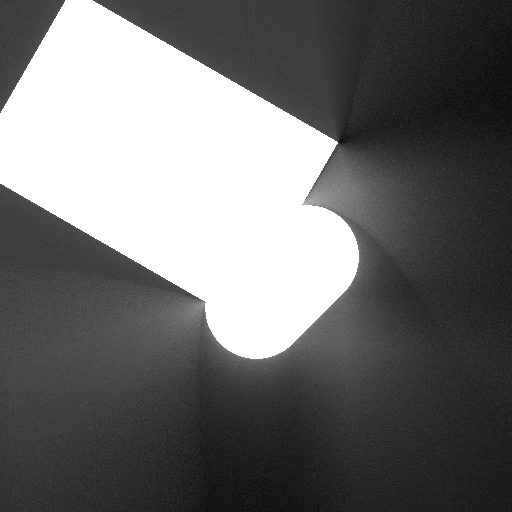
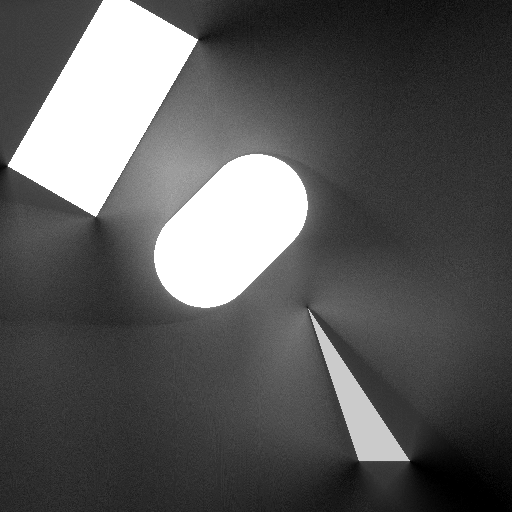
light reflect, not finished

diff --git a/src/c_pure/light.c b/src/c_pure/light.c
@@ -21,11 +21,13 @@ float circleSDF(float ox, float oy, float cx, float cy, float r){
 /**
  * 光线步进追踪
  */
-#define MAX_STEP 10
+#define MAX_STEP 64
 // 描述光是按直线上的单位的长度, 这里与半径一致, 就可以步进到 
-#define MAX_DISTANCE 2.0f
+#define MAX_DISTANCE 5.0f
 // 这是一个什么常量呢? sdf 与之比较, 那就是指边接近边界的值
 #define EPSILON 1e-6f
+#define BAIS 1e-4f
+#define MAX_DEPTH 3
 
 /**
  * ray tracing, 求出光线与场景的最近点
@@ -91,7 +93,11 @@ unsigned char* drawBasicLight(){
     return img;
 }
 
-typedef struct {float sdf, emissive;} Result;
+typedef struct {float sdf, emissive, reflectivity;} Result;
+
+// 定义场景渲染函数指针
+static Result (*scenePtr)(float x, float y);
+static float (*samplePtr)(float x, float y);
 
 /**
  * 并集
@@ -118,50 +124,13 @@ Result subtractOp(Result a, Result b){
     return r;
 }
 
-static Result scene(float x, float y){
+static Result sceneCSG(float x, float y){
     Result r1 = {circleSDF(x, y, 0.4f, 0.5f, 0.2f), 1.0f};
     Result r2 = {circleSDF(x, y, 0.6f, 0.5f, 0.2f), 0.8f};
     // return unionOp(r1, r2);
     return intersectOp(r1, r2);
     // return subtractOp(r1, r2);
     // return subtractOp(r2, r1);
-}
-
-float trace_s(float ox, float oy, float cosx, float sinx){
-    float t = 0.0f;
-    for(int i=0; i<MAX_STEP && t < MAX_DISTANCE; i++){
-        Result r = scene(ox + t*cosx, oy + t*sinx);
-        if(r.sdf < EPSILON){
-            return r.emissive;
-        }
-        t += r.sdf;
-    }
-    return 0.0f;
-}
-
-float sample_s(float x, float y){
-    float sum = 0.0f;
-    for(int i=0; i<N; i++){
-        // float a = i* TWO_PI / N;
-        float a = (i + (float)rand() / RAND_MAX) * TWO_PI / N;
-        sum += trace_s(x, y, cosf(a), sinf(a));
-    }
-    return sum / N;
-}
-
-unsigned char* drawCSGLight(){
-    char* p = img;
-    // 这里怎么不需要memset?
-    for(int y=0; y<H; y++){
-        for (int x=0; x<W; x++, p+=3){
-            // 这里为何要 这里是将坐标单位化, 圆心是按0.5, 0.5来算的
-            p[0] = p[1] = p[2] = (int)fminf(sample_s((float)x/W, (float)y/H)*255.0f, 255.0f);
-        //     p[0] = (int)fminf(sample((float)x/W, (float)y/H)*255.0f, 255.0f);
-        //     p[1] = (int)fminf(sample((float)x/W, (float)y/H)*255.0f, 255.0f);
-        //     p[2] = 0;
-        }
-    }
-    return img;
 }
 
 float segmentSDF(float x, float y, float ax, float ay, float bx, float by){
@@ -199,16 +168,29 @@ float triangleSDF(float x, float y, float ax, float ay, float bx, float by, floa
             (ax - cx) * (y - cy) > (ay - cy) * (x - cx) ? -d : d;
 }
 
-static Result shapeScene(float x, float y){
-    Result r1 = {rectangleSDF(x, y, 0.3f, 0.3f, TWO_PI / 12, 0.3f, 0.2f), 1.0f};
-    Result r2 = {capsuleSDF_2(x, y, 0.5f, 0.6f, 0.6f, 0.5f, 0.1f), 1.5f};
-    Result r3 = {triangleSDF(x, y, 0.7f, 0.5f, 0.4f, 0.6f, 0.6f, 0.6f), 0.8f};
+/********** 反射  **************/
+void reflect(float ix, float iy, float nx, float ny, float *rx, float *ry){
+    float idotn2 = (ix * nx + iy * ny) * 2;
+    *rx = ix - idotn2 * nx;
+    *ry = iy - idotn2 * ny;
+}
+
+void gradient(float x, float y, float *nx, float *ny){
+    *nx = (scenePtr(x + EPSILON, y).sdf - scenePtr(x - EPSILON, y).sdf) * (0.5f / EPSILON);
+    *ny = (scenePtr(x, y + EPSILON).sdf - scenePtr(x, y - EPSILON).sdf) * (0.5f / EPSILON);
+}
+
+static Result sceneShape(float x, float y){
+    Result r1 = {rectangleSDF(x, y, 0.2f, 0.2f, TWO_PI / 12, 0.1f, 0.2f), 1.0f};
+    Result r2 = {capsuleSDF_2(x, y, 0.4f, 0.5f, 0.5f, 0.4f, 0.1f), 1.5f};
+    Result r3 = {triangleSDF(x, y, 0.7f, 0.9f, 0.6f, 0.6f, 0.8f, 0.9f), 0.8f};
     return unionOp(unionOp(r1, r2), r3);
 }
+
 float traceShape(float ox, float oy, float cosx, float sinx){
     float t = 0.0f;
     for(int i=0; i<MAX_STEP && t < MAX_DISTANCE; i++){
-        Result r = shapeScene(ox + t*cosx, oy + t*sinx);
+        Result r = (*scenePtr)(ox + t*cosx, oy + t*sinx);
         if(r.sdf < EPSILON){
             return r.emissive;
         }
@@ -227,18 +209,110 @@ float sampleShape(float x, float y){
     return sum / N;
 }
 
-unsigned char* drawShapes(){
+unsigned char* draw(){
     char* p = img;
-    // 这里怎么不需要memset?
+    // 这里怎么不需要memset? 说明svpng里对数组默认值就是0
     for(int y=0; y<H; y++){
         for (int x=0; x<W; x++, p+=3){
+            float nx, ny;
             // 这里为何要 这里是将坐标单位化, 圆心是按0.5, 0.5来算的
-            p[0] = p[1] = p[2] = (int)fminf(sampleShape((float)x/W, (float)y/H)*255.0f, 255.0f);
-        //     p[0] = (int)fminf(sample((float)x/W, (float)y/H)*255.0f, 255.0f);
-        //     p[1] = (int)fminf(sample((float)x/W, (float)y/H)*255.0f, 255.0f);
-        //     p[2] = 0;
+            p[0] = p[1] = p[2] = (int)fminf(samplePtr((float)x/W, (float)y/H)*255.0f, 255.0f);
+            // gradient((float)x/W, (float)y/H, &nx, &ny);
+            // p[0] = (int)fminf(sample((float)x/W, (float)y/H)*255.0f, 255.0f);
+            // p[1] = (int)fminf(sample((float)x/W, (float)y/H)*255.0f, 255.0f);
+            // p[2] = 0;
+        }
+    }
+    return img;
+}
+
+unsigned char* drawGradientColor(){
+    char* p = img;
+    for(int y=0; y<H; y++){
+        for (int x=0; x<W; x++, p+=3){
+            float nx, ny;
+            gradient((float)x/W, (float)y/H, &nx, &ny);
+            p[0] = (int)((fmaxf(fminf(nx, 1.0f), -1.0f) * 0.5f + 0.5f) * 255.0f);
+            p[1] = (int)((fmaxf(fminf(ny, 1.0f), -1.0f) * 0.5f + 0.5f) * 255.0f);
+            p[2] = 0;
         }
     }
     return img;
 
+}
+
+unsigned char* drawCSGLight(){
+    scenePtr = &sceneCSG;
+    samplePtr = sampleShape; 
+    return draw();
+}
+
+unsigned char* drawShapes(){
+    scenePtr = &sceneShape;
+    samplePtr = sampleShape; 
+    return draw();
+}
+
+static Result sceneM(float x, float y){
+    // 轴对称
+    x = fabsf(x - 0.5f) + 0.5f;
+    Result a = {capsuleSDF_2(x, y, 0.75f, 0.25f, 0.75f, 0.75f, 0.05f), 1.0f};
+    Result b = {capsuleSDF_2(x, y, 0.75f, 0.25f, 0.50f, 0.75f, 0.05f), 1.0f};
+    return a.sdf < b.sdf ? a : b;
+}
+
+unsigned char* drawM(){
+    scenePtr = sceneM;
+    samplePtr = sampleShape; 
+    return draw();
+}
+
+Result sceneGradient(float x, float y){
+    Result a = {circleSDF(x, y, 0.4f, 0.2f, 0.1f), 2.0f, 0.0f};
+    Result b = {rectangleSDF(x, y, 0.5f, 0.8f, TWO_PI/16.0f, 0.1f, 0.1f), 0.0f, 0.9f};
+    Result c = {rectangleSDF(x, y, 0.8f, 0.5f, TWO_PI/16.0f, 0.1f, 0.1f), 0.0f, 0.9f};
+    Result d = {planeSDF(x, y, 0.0f, 0.5f, 0.0f, -1.0f), 0.0f, 0.9f};
+    Result e = {circleSDF(x, y, 0.5f, 0.5f, 0.4f), 0.0f, 0.9f};
+    return unionOp(unionOp(a, b), c);
+    // return unionOp(a, subtractOp(d,e));
+}
+
+unsigned char* drawGradient(){
+    scenePtr = sceneGradient;
+    return drawGradientColor();
+}
+
+float traceReflect(float ox, float oy, float cosx, float sinx, int depth){
+    float t = 0.0f;
+    for(int i=0; i<MAX_STEP && t < MAX_DISTANCE; i++){
+        float x = ox + t * cosx, y = oy + t * sinx;
+        Result r = scenePtr(x, y);
+        if(r.sdf < EPSILON){
+            float sum = r.emissive;
+            if(depth < MAX_DEPTH && r.reflectivity > 0.0f){
+                float nx, ny, rx, ry;
+                gradient(x, y, &nx, &ny);
+                reflect(cosx, sinx, nx, ny, &rx, &ry);
+                sum += r.reflectivity * traceReflect(x + nx * BAIS, y + ny * BAIS, rx, ry, depth + 1);
+            }
+            return sum;
+        }
+        t += r.sdf;
+    }
+    return 0.0f;
+}
+
+float sampleReflect(float x, float y){
+    float sum = 0.0f;
+    for(int i=0; i<N; i++){
+        float a = TWO_PI * (i + (float)rand() / RAND_MAX) / N;
+        sum += traceReflect(x, y, cosf(a), sinf(a), 0);
+    }
+    return sum / N;
+}
+
+unsigned char* drawReflect(){
+    scenePtr = sceneGradient;
+    samplePtr = sampleReflect;
+    return draw();
 }

diff --git a/src/c_pure/main.c b/src/c_pure/main.c
@@ -52,8 +52,20 @@ int main(void){
     // image = drawCSGLight();
     // svpng(fp, W, H, image, 0);
 
-    FILE *fp = fopen("light_geomitry_shape.png", "wb");
-    image = drawShapes();
+    // FILE *fp = fopen("light_geomitry_shape.png", "wb");
+    // image = drawShapes();
+    // svpng(fp, W, H, image, 0);
+
+    // FILE *fp = fopen("light_m.png", "wb");
+    // image = drawM();
+    // svpng(fp, W, H, image, 0);
+
+    // FILE *fp = fopen("light_gradient.png", "wb");
+    // image = drawGradient();
+    // svpng(fp, W, H, image, 0);
+
+    FILE *fp = fopen("light_reflect.png", "wb");
+    image = drawReflect();
     svpng(fp, W, H, image, 0);
 
     fclose(fp);

diff --git a/src/c_pure/light.h b/src/c_pure/light.h
@@ -7,4 +7,11 @@ unsigned char* drawBasicLight();
 unsigned char* drawCSGLight();
 
 unsigned char* drawShapes();
+
+unsigned char* drawM();
+
+unsigned char* drawGradient();
+
+unsigned char* drawReflect();
+
 #endif
